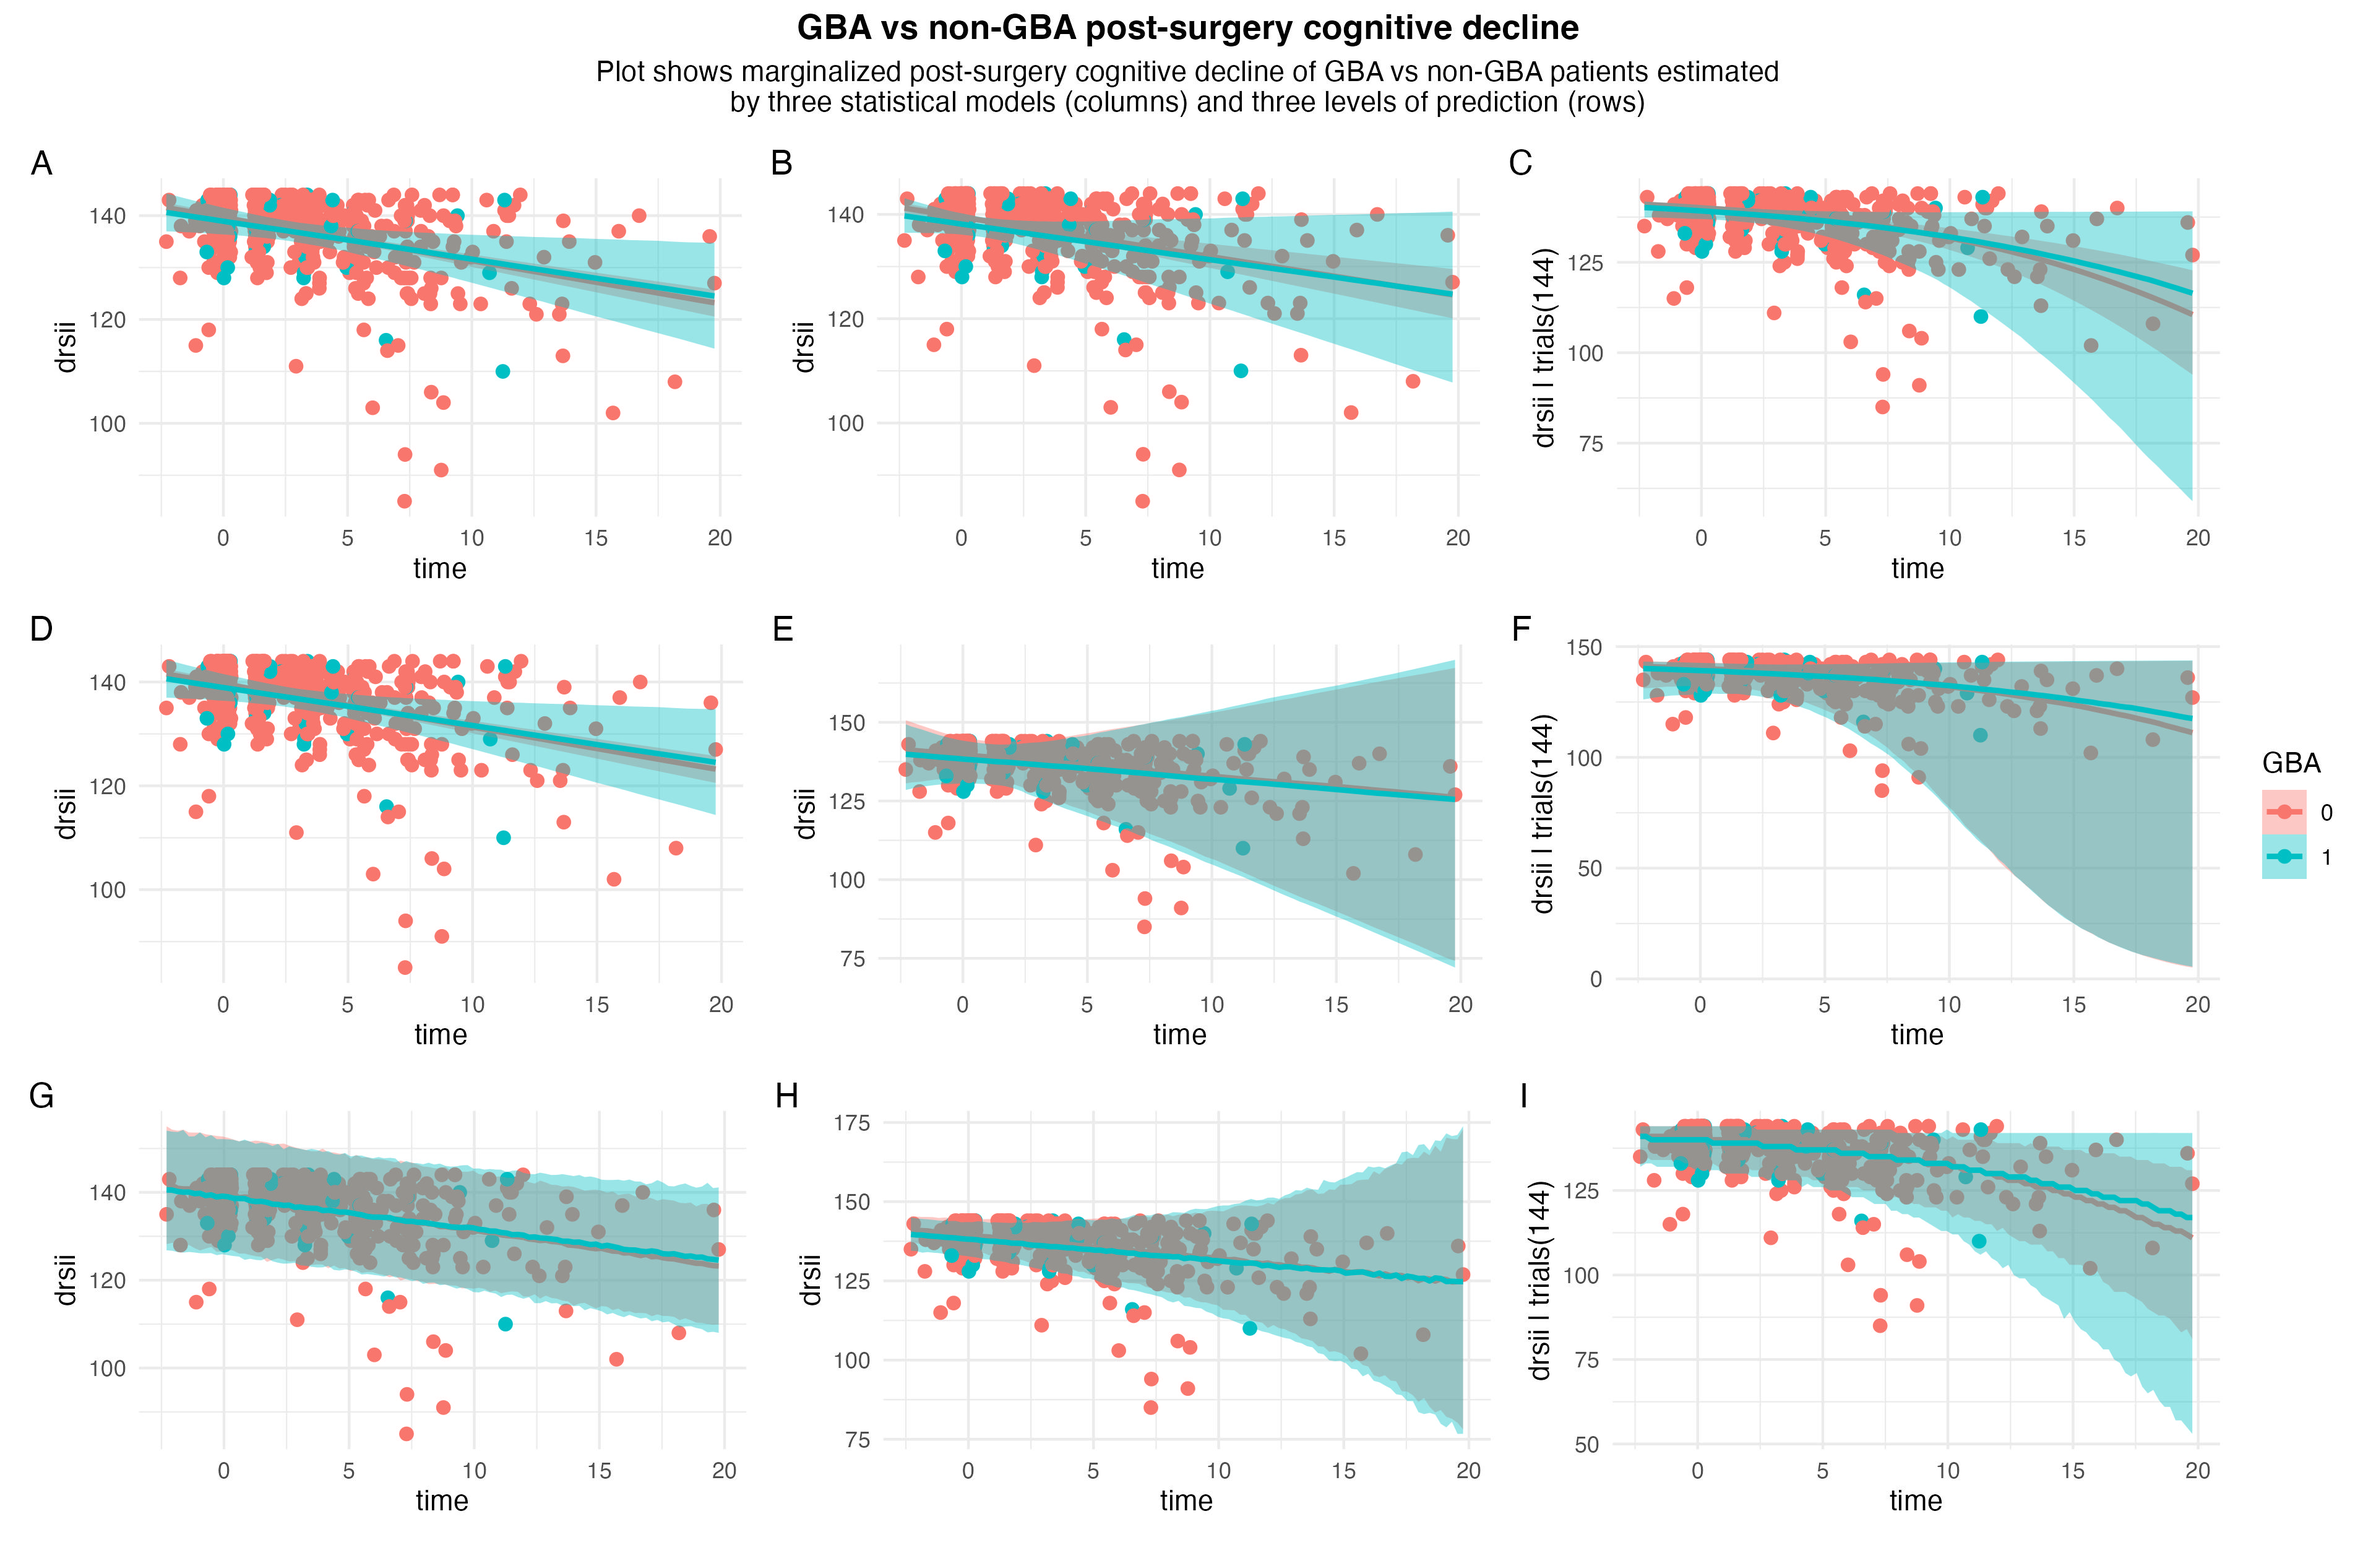
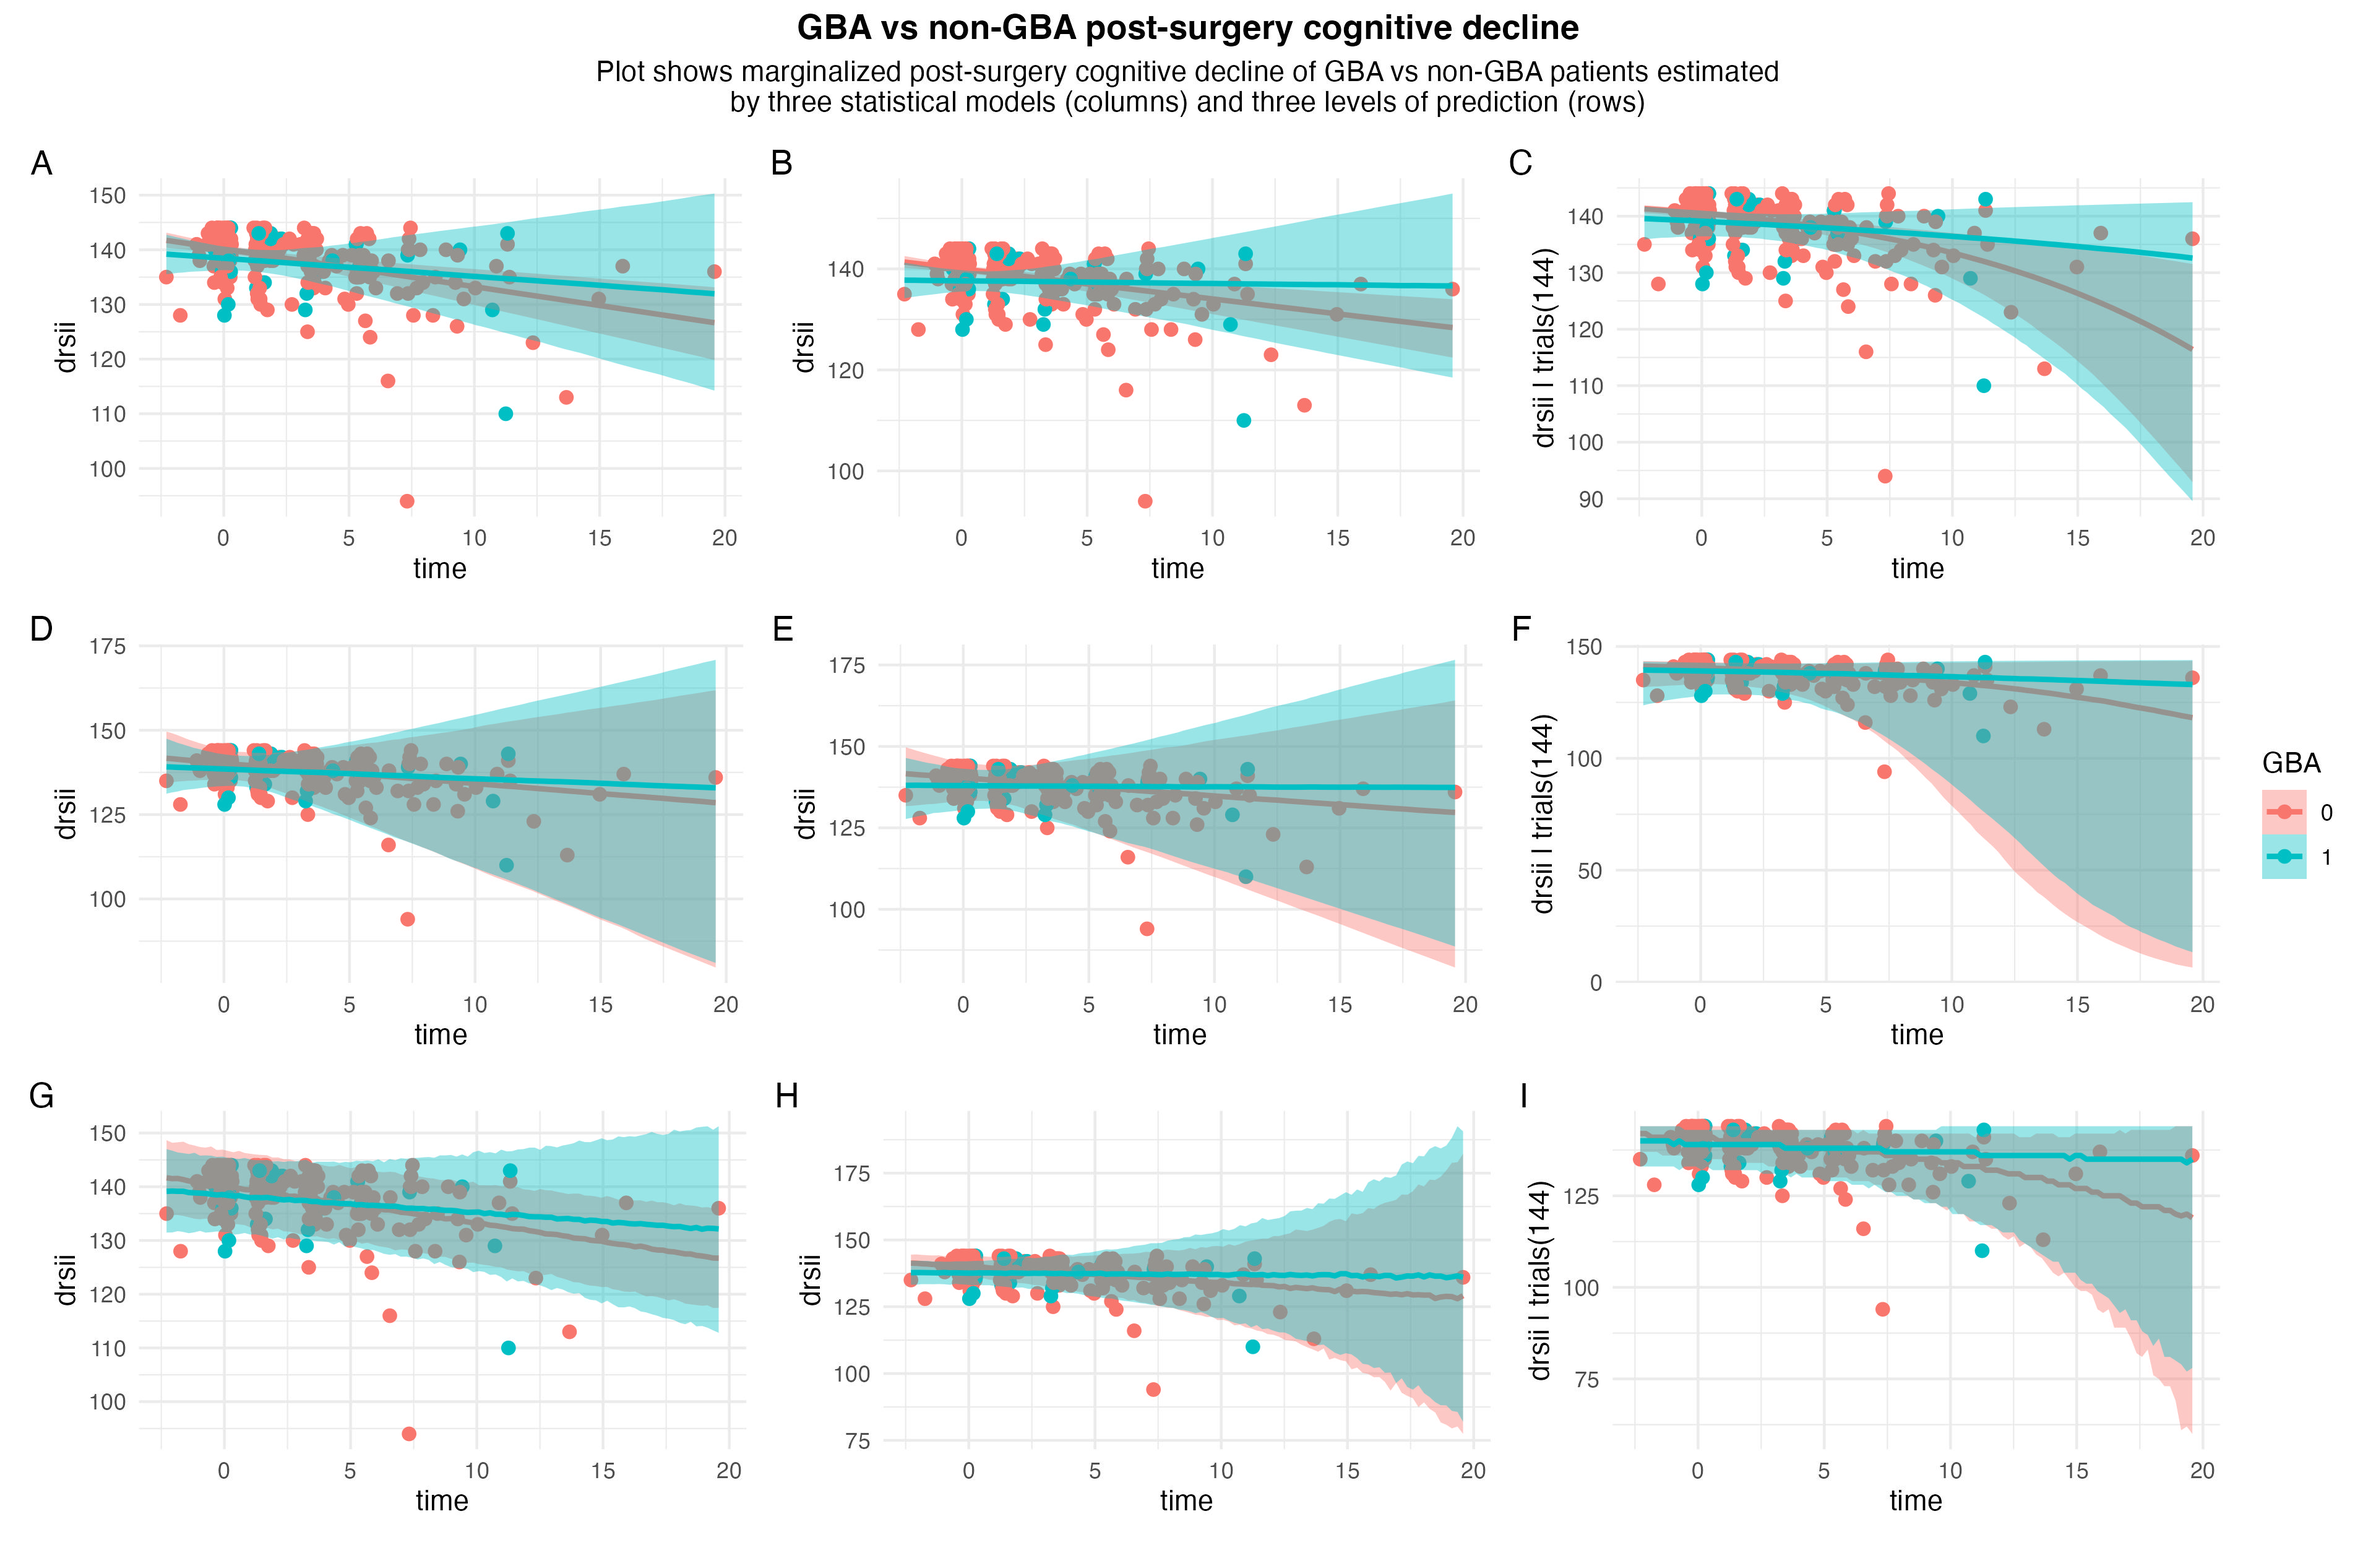
recalculated with patients with genetic assessment only

diff --git a/README.md b/README.md
@@ -1,11 +1,34 @@
-# dbs_coGBA
-Looking into GBA mutation in PD-DBS treated patients.
+# Cognitive trajectories of PD with GBA mutation treated via STN DBS
 
 Data were kept in iTEMPO (First Faculty of Medicine, Charles University, Prague) internal database and extracted via [scripts from my data management repository](https://www.github.com/josefmana/dbs_dataMANA).
 
-The [renv](https://rstudio.github.io/renv/) package was used to create reproducible environment for the project. To set-up R environment for reproduction of our results, run the following in R:
+The [renv](https://rstudio.github.io/renv/) package was used to create reproducible environment for the project. To set-up R environment for reproduction of my results, run the following in R:
 ```
 install.packages("renv")
 renv::restore()
 ```
 
+## Introduction
+
+This project commenced as a reaction to recent reports of GBA+ genotype being associated with long-term cognitive decline operationalised by DRS-2 score especially in STN DBS treated PD patients by [Pal et al. (2022)](https://doi.org/10.1002/ana.26302) and [Avenali et al. (2024)]((https://doi.org/10.1136/jnnp-2023-332387). Both groups reported a markedly larger post-surgery DRS-2 decline in GBA+ compared to GBA- in large multicentric data sets of patients with PD. Here, I describe post-surgery cognitive trajectories in DRS-2 of GBA+ and GBA- patients with PD who are part of a longitudinally collected data from [iTEMPO](https://neurologie.lf1.cuni.cz/1LFNK-289.html) at the First Faculty of Medicine of Charles University in Prague.
+
+
+## Methods
+
+Statistically,the basic model I fit is a multilevel regression with Gaussian error term, mean predicted by group-level time and GBA status interaction ('fixed effects') and patient-level intercepts and time slopes offsets ('random effects'), and residual standard deviation identical across cases. This is similar to the approach used by [Pal et al. (2022)](https://doi.org/10.1002/ana.26302) who further added group-level parameters for other variables (without any theoretical argument for their inclusion mind you), did not include any patient-level parameters but instead modelled site-level intercepts (assuming identical side- and patient-level slopes). I compare the results of this model to an otherwise identical model with time-dependent group-level parameters for standard deviation (accounting for time-dependent heteroscedasticity), and a Beta-Binomial model with an equivalent specification. All models were fitted via the [brms](https://github.com/paul-buerkner/brms.git) package in the Bayesian framework with default brms priors.
+
+
+## Results
+
+Patient/measuring occasion distribution is available in ```figs/assessment_distributions.jpg```. All models converged successfully and reproduced central tendency and spread indexes of the data reasonably well (@fig-ppc). The second Normal model lead to a significant improvement over the first Normal model as can be seen in the posterior predictive check (PPC) for median and IQR and was further corroborated by ELPD expected out-of-sample predictive performance estimated via PSIS-LOO which showed advantage of the second model that was more than 2 SDs away from zero. Further PPCs are presented in ```figs/ppc_shape.jpg```.
+
+![Posterior predictive check of central tendency and spread quantities across models.](figs/ppc_stats.jpg){#fig-ppc}
+
+The estimated cognitive trajectories are presented in @fig-meff for each model (columns) on level of sample-level inference (the first row), population-level inference (the second row), and prediction (the third row). Overall, not much differences between GBA+ and GBA- can be inferred from my data and models.
+
+![Post-surgery cognitive trajectories as inferred (first two rows) and predicted (the third row) by each model (columns).](figs/marginal_effects.jpg){#fig-meff}
+
+
+## Conclusions
+
+Time-dependent non-homogeneity of variance in DRS-2 scores of STN DBS-treated patients with PD is a thing and should not be ignored. Replicating the worse DRS-2 post-surgery decline in GBA+ PD patients compared to GBA- PD patients treated via STN DBS is not easily observed in an independent sample of patients, at least not in the Prague cohort.
